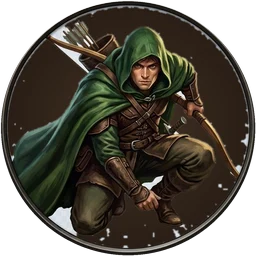
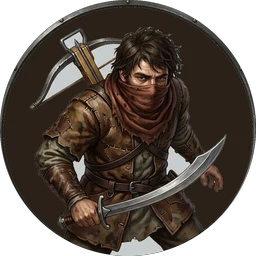
Swap in new bandit token and welcome art; mark all gen-images done
Claude-Session: https://claude.ai/code/session_01RabvW37jVAKFFNPmZBsKeE

diff --git a/dnd-for-friend/gen-images.html b/dnd-for-friend/gen-images.html
@@ -121,7 +121,7 @@ code { font-family: var(--font-mono); font-size: .85em }
 </div>
 
 <script>
-const IMAGES = [{"group":"npc","name":"npc-maren","label":"Sister Maren · วิหาร","ratio":"3:4","prompt":"Sister Maren, a kind middle-aged human priestess of a dawn goddess, warm brown skin, gentle smile, silver-streaked dark hair under a cream hood, white and gold robes with a sunrise emblem on the chest, holding a small glowing lantern. Waist-up character portrait, facing slightly toward the viewer, warm candle and lantern light, softly blurred dark background, painted like a fantasy RPG visual novel character.","note":"ok","noteText":"อยู่ในเกมแล้ว"},{"group":"npc","name":"npc-pell","label":"Old Pell · โรงเตี๊ยม","ratio":"3:4","prompt":"Old Pell, a very old halfling storyteller sitting by a tavern hearth, bushy white eyebrows, twinkling eyes, long pipe with a curl of smoke, patched green waistcoat, mug of ale, leaning in as if telling a secret about a dragon. Waist-up character portrait, facing slightly toward the viewer, warm candle and lantern light, softly blurred dark background, painted like a fantasy RPG visual novel character.","note":"ok","noteText":"อยู่ในเกมแล้ว"},{"group":"npc","name":"npc-bram","label":"Bram · ตลาด","ratio":"3:4","prompt":"Bram, a grumpy stout dwarf shopkeeper with a braided red-brown beard, leather apron full of tools, one eyebrow raised, arms crossed, shelves of potions, rope and weapons behind him. Waist-up character portrait, facing slightly toward the viewer, warm candle and lantern light, softly blurred dark background, painted like a fantasy RPG visual novel character.","note":"ok","noteText":"อยู่ในเกมแล้ว"},{"group":"npc","name":"npc-oswin","label":"Mayor Oswin Hale · กระดานประกาศ","ratio":"3:4","prompt":"Mayor Oswin Hale, a worried but kind human village mayor in his fifties, round face, receding gray hair, tired eyes, plain brown coat with a brass chain of office, holding a crumpled missing-persons notice. Waist-up character portrait, facing slightly toward the viewer, warm candle and lantern light, softly blurred dark background, painted like a fantasy RPG visual novel character.","note":"ok","noteText":"อยู่ในเกมแล้ว"},{"group":"portrait","name":"portrait-pre-fighter","label":"Brannoc Ironvow","ratio":"1:1","prompt":"Fantasy portrait of a stout dwarf warrior, braided copper beard, long scar on left cheek, chain mail armor, greatsword over shoulder, determined stern eyes, torch-lit mine gate background, painterly D&D character art, upper body, dramatic lighting. Head and shoulders, centered, plain dark background.","note":"ok","noteText":"อยู่ในเกมแล้ว"},{"group":"portrait","name":"portrait-pre-rogue","label":"Pip Quickfinger","ratio":"1:1","prompt":"Fantasy portrait of a cheerful halfling rogue, curly brown hair, mischievous grin, dark leather hooded cloak, twin daggers, harbor alley at night with lanterns, painterly D&D character art, upper body, moody blue and orange lighting. Head and shoulders, centered, plain dark background.","note":"ok","noteText":"อยู่ในเกมแล้ว"},{"group":"portrait","name":"portrait-pre-cleric","label":"Sister Elara Dawnmere","ratio":"1:1","prompt":"Fantasy portrait of a young human female cleric, long silver hair tied back, amber eyes, white and gold vestments over chain shirt, round shield with sun emblem, holy light glowing from her hand, temple interior background, painterly D&D character art, upper body, warm golden lighting. Head and shoulders, centered, plain dark background.","note":"ok","noteText":"อยู่ในเกมแล้ว"},{"group":"portrait","name":"portrait-pre-ranger","label":"Faelan Windleaf","ratio":"1:1","prompt":"Fantasy portrait of a male wood elf ranger, tan skin, long dark green hair braided with dry leaves, camouflaged leather armor, carved longbow with vine patterns, misty ancient forest background, painterly D&D character art, upper body, soft green dappled light. Head and shoulders, centered, plain dark background.","note":"ok","noteText":"อยู่ในเกมแล้ว"},{"group":"portrait","name":"portrait-pre-wizard","label":"Tibbly Cogsworth","ratio":"1:1","prompt":"Fantasy portrait of a tiny gnome wizard, fluffy white hair sticking up, thick round glasses, singed blue robe, hugging an oversized spellbook, small blue flame floating above his palm, cluttered magic library background, painterly D&D character art, upper body, whimsical warm candle lighting. Head and shoulders, centered, plain dark background.","note":"ok","noteText":"อยู่ในเกมแล้ว"},{"group":"token","name":"token-wolf","label":"Wolf · CR 1/4","ratio":"1:1","prompt":"Circular top-down tabletop token of a lean gray wolf with bared fangs, viewed from directly above at a slight angle, centered inside a thin dark round frame, transparent-looking plain light gray background outside the circle.","note":"ok","noteText":"อยู่ในเกมแล้ว"},{"group":"token","name":"token-goblin-minion","label":"Goblin Minion · CR 1/8","ratio":"1:1","prompt":"Circular top-down tabletop token of a scrawny green goblin with a rusty knife and ragged hood, viewed from directly above at a slight angle, centered inside a thin dark round frame, transparent-looking plain light gray background outside the circle.","note":"ok","noteText":"อยู่ในเกมแล้ว"},{"group":"token","name":"token-goblin-warrior","label":"Goblin Warrior · CR 1/4","ratio":"1:1","prompt":"Circular top-down tabletop token of a goblin warrior with a scimitar, small round shield and leather armor, viewed from directly above at a slight angle, centered inside a thin dark round frame, transparent-looking plain light gray background outside the circle.","note":"ok","noteText":"อยู่ในเกมแล้ว"},{"group":"token","name":"token-goblin-boss","label":"Goblin Boss · CR 1","ratio":"1:1","prompt":"Circular top-down tabletop token of a hulking goblin chieftain with a crown of bones, chain shirt and heavy scimitar, viewed from directly above at a slight angle, centered inside a thin dark round frame, transparent-looking plain light gray background outside the circle.","note":"ok","noteText":"อยู่ในเกมแล้ว"},{"group":"token","name":"token-skeleton","label":"Skeleton · CR 1/4","ratio":"1:1","prompt":"Circular top-down tabletop token of an animated human skeleton with a notched shortsword and glowing blue eye sockets, viewed from directly above at a slight angle, centered inside a thin dark round frame, transparent-looking plain light gray background outside the circle.","note":"ok","noteText":"อยู่ในเกมแล้ว"},{"group":"token","name":"token-zombie","label":"Zombie · CR 1/4","ratio":"1:1","prompt":"Circular top-down tabletop token of a shambling rotting zombie in torn burial clothes, viewed from directly above at a slight angle, centered inside a thin dark round frame, transparent-looking plain light gray background outside the circle.","note":"ok","noteText":"อยู่ในเกมแล้ว"},{"group":"token","name":"token-swarm-of-rats","label":"Swarm of Rats · CR 1/4","ratio":"1:1","prompt":"Circular top-down tabletop token of a writhing swarm of dozens of black rats, viewed from directly above at a slight angle, centered inside a thin dark round frame, transparent-looking plain light gray background outside the circle.","note":"ok","noteText":"อยู่ในเกมแล้ว"},{"group":"token","name":"token-ghoul","label":"Ghoul · CR 1","ratio":"1:1","prompt":"Circular top-down tabletop token of a gaunt gray ghoul with long claws and a hungry grin, viewed from directly above at a slight angle, centered inside a thin dark round frame, transparent-looking plain light gray background outside the circle.","note":"ok","noteText":"อยู่ในเกมแล้ว"},{"group":"token","name":"token-ghast","label":"Ghast · CR 2","ratio":"1:1","prompt":"Circular top-down tabletop token of a ghast in tattered priest robes with ashen skin, sharp claws and a putrid green aura, viewed from directly above at a slight angle, centered inside a thin dark round frame, transparent-looking plain light gray background outside the circle.","note":"ok","noteText":"อยู่ในเกมแล้ว"},{"group":"token","name":"token-bandit","label":"Bandit · CR 1/8","ratio":"1:1","prompt":"Circular top-down tabletop token of a rough unshaven human bandit with no hood, a dirty red-brown scarf over the lower face, patched brown leather jerkin, scimitar in hand and a light crossbow on the back (NOT green, NOT a cloak, must look different from a scout), viewed from directly above at a slight angle, centered inside a thin dark round frame, transparent-looking plain light gray background outside the circle.","note":"redo","noteText":"ทำใหม่: ตอนนี้หน้าตาเหมือน Scout (ผ้าคลุมเขียว) ในเกมแยกไม่ออก Prompt แก้แล้ว"},{"group":"token","name":"token-scout","label":"Scout · CR 1/2","ratio":"1:1","prompt":"Circular top-down tabletop token of a sharp-eyed scout in a green cloak with a longbow, viewed from directly above at a slight angle, centered inside a thin dark round frame, transparent-looking plain light gray background outside the circle.","note":"ok","noteText":"อยู่ในเกมแล้ว"},{"group":"token","name":"token-tough","label":"Tough · CR 1/2","ratio":"1:1","prompt":"Circular top-down tabletop token of a burly thug with a mace and studded leather armor, viewed from directly above at a slight angle, centered inside a thin dark round frame, transparent-looking plain light gray background outside the circle.","note":"ok","noteText":"อยู่ในเกมแล้ว"},{"group":"token","name":"token-bandit-captain","label":"Bandit Captain · CR 2","ratio":"1:1","prompt":"Circular top-down tabletop token of a scarred bandit captain with a red bandana, scimitar and dagger, fine but dirty coat, viewed from directly above at a slight angle, centered inside a thin dark round frame, transparent-looking plain light gray background outside the circle.","note":"ok","noteText":"อยู่ในเกมแล้ว"},{"group":"token","name":"token-cultist","label":"Cultist · CR 1/8","ratio":"1:1","prompt":"Circular top-down tabletop token of a cultist in an ash-gray robe with a three-pronged flame symbol, viewed from directly above at a slight angle, centered inside a thin dark round frame, transparent-looking plain light gray background outside the circle.","note":"ok","noteText":"อยู่ในเกมแล้ว"},{"group":"token","name":"token-magma-mephit","label":"Magma Mephit · CR 1/2","ratio":"1:1","prompt":"Circular top-down tabletop token of a small impish creature of molten rock and dripping magma, viewed from directly above at a slight angle, centered inside a thin dark round frame, transparent-looking plain light gray background outside the circle.","note":"ok","noteText":"อยู่ในเกมแล้ว"},{"group":"token","name":"token-cultist-fanatic","label":"Cultist Fanatic · CR 2","ratio":"1:1","prompt":"Circular top-down tabletop token of a fanatical cult leader in ash-gray and ember-red robes holding a flaming dagger, viewed from directly above at a slight angle, centered inside a thin dark round frame, transparent-looking plain light gray background outside the circle.","note":"ok","noteText":"อยู่ในเกมแล้ว"},{"group":"token","name":"token-hell-hound","label":"Hell Hound · CR 3","ratio":"1:1","prompt":"Circular top-down tabletop token of a black hound wreathed in fire with smoldering red eyes, viewed from directly above at a slight angle, centered inside a thin dark round frame, transparent-looking plain light gray background outside the circle.","note":"ok","noteText":"อยู่ในเกมแล้ว"},{"group":"token","name":"token-red-dragon-wyrmling","label":"Red Dragon Wyrmling · CR 4","ratio":"1:1","prompt":"Circular top-down tabletop token of a young red dragon with crimson scales, horned head and smoke curling from its nostrils, viewed from directly above at a slight angle, centered inside a thin dark round frame, transparent-looking plain light gray background outside the circle.","note":"ok","noteText":"ใช้ได้ (พื้นหลังลายตารางลบไม่หมดนิดหน่อยแถวหัว ถ้าอยากเนียนค่อยทำใหม่)"},{"group":"world","name":"map-world","label":"Ember Vale world map","ratio":"16:9","prompt":"Hand-painted fantasy overland map of a valley called Ember Vale, parchment style seen from above. Places: Brindlemoor (a small log village by a stream) at 18% from the left and 52% from the top; Thornback Hollow (a thorny forest hollow) at 46% from the left and 57% from the top; Gravewatch Crypt (an old crypt in a misty graveyard) at 37% from the left and 24% from the top; Redcliff Tower (a red stone tower on a sea cliff) at 85% from the left and 58% from the top; Ashen Spire (a black volcanic spire with smoke) at 84% from the left and 22% from the top. Dirt roads connect the village to the forest hollow, the crypt and the tower, and the hollow and tower to the volcanic spire. A river runs across the lower third. Mountains in the north. Leave the place markers unlabeled (the game draws its own pins and names).","note":"ok","noteText":"อยู่ในเกมแล้ว"},{"group":"welcome","name":"welcome","label":"รูปต้อนรับหน้าเข้าเล่น","ratio":"16:9","prompt":"Epic wide establishing shot of Ember Vale at dusk: a cozy log village with warm lit windows by a stream in the foreground left, a dark thorny forest in the middle, a red stone tower on a sea cliff to the right, and far away a black volcanic spire glowing with lava and smoke where a red dragon silhouette circles. Five adventurers seen from behind on a hill in the lower right (a dwarf fighter with a greatsword, a halfling rogue, a human cleric with a shining shield, an elf ranger with a bow, a gnome wizard with a staff light). Cinematic painted fantasy key art, warm amber and teal palette, the lower-left third is darker and simpler so title text can sit there.","note":"new","noteText":"ยังไม่มี: ตอนนี้หน้าเข้าเล่นใช้แผนที่โลกแทนไปก่อน ทำแล้วเซฟเป็น images\\welcome.png"},{"group":"object","name":"obj-chest","label":"หีบสมบัติบนแผนที่","ratio":"1:1","prompt":"A single small closed wooden treasure chest with iron bands and a gold lock, seen from directly above at a slight angle like a tabletop map prop, centered, filling most of the frame, plain flat dark brown background, soft warm light, no shadow outside the chest.","note":"new","noteText":"ยังไม่มี: ตอนนี้เกมวาดเป็นกล่องสีน้ำตาลเฉย ๆ ทำแล้วใส่ในโฟลเดอร์ images ส่งให้ Claude"}];
+const IMAGES = [{"group":"npc","name":"npc-maren","label":"Sister Maren · วิหาร","ratio":"3:4","prompt":"Sister Maren, a kind middle-aged human priestess of a dawn goddess, warm brown skin, gentle smile, silver-streaked dark hair under a cream hood, white and gold robes with a sunrise emblem on the chest, holding a small glowing lantern. Waist-up character portrait, facing slightly toward the viewer, warm candle and lantern light, softly blurred dark background, painted like a fantasy RPG visual novel character.","note":"ok","noteText":"อยู่ในเกมแล้ว"},{"group":"npc","name":"npc-pell","label":"Old Pell · โรงเตี๊ยม","ratio":"3:4","prompt":"Old Pell, a very old halfling storyteller sitting by a tavern hearth, bushy white eyebrows, twinkling eyes, long pipe with a curl of smoke, patched green waistcoat, mug of ale, leaning in as if telling a secret about a dragon. Waist-up character portrait, facing slightly toward the viewer, warm candle and lantern light, softly blurred dark background, painted like a fantasy RPG visual novel character.","note":"ok","noteText":"อยู่ในเกมแล้ว"},{"group":"npc","name":"npc-bram","label":"Bram · ตลาด","ratio":"3:4","prompt":"Bram, a grumpy stout dwarf shopkeeper with a braided red-brown beard, leather apron full of tools, one eyebrow raised, arms crossed, shelves of potions, rope and weapons behind him. Waist-up character portrait, facing slightly toward the viewer, warm candle and lantern light, softly blurred dark background, painted like a fantasy RPG visual novel character.","note":"ok","noteText":"อยู่ในเกมแล้ว"},{"group":"npc","name":"npc-oswin","label":"Mayor Oswin Hale · กระดานประกาศ","ratio":"3:4","prompt":"Mayor Oswin Hale, a worried but kind human village mayor in his fifties, round face, receding gray hair, tired eyes, plain brown coat with a brass chain of office, holding a crumpled missing-persons notice. Waist-up character portrait, facing slightly toward the viewer, warm candle and lantern light, softly blurred dark background, painted like a fantasy RPG visual novel character.","note":"ok","noteText":"อยู่ในเกมแล้ว"},{"group":"portrait","name":"portrait-pre-fighter","label":"Brannoc Ironvow","ratio":"1:1","prompt":"Fantasy portrait of a stout dwarf warrior, braided copper beard, long scar on left cheek, chain mail armor, greatsword over shoulder, determined stern eyes, torch-lit mine gate background, painterly D&D character art, upper body, dramatic lighting. Head and shoulders, centered, plain dark background.","note":"ok","noteText":"อยู่ในเกมแล้ว"},{"group":"portrait","name":"portrait-pre-rogue","label":"Pip Quickfinger","ratio":"1:1","prompt":"Fantasy portrait of a cheerful halfling rogue, curly brown hair, mischievous grin, dark leather hooded cloak, twin daggers, harbor alley at night with lanterns, painterly D&D character art, upper body, moody blue and orange lighting. Head and shoulders, centered, plain dark background.","note":"ok","noteText":"อยู่ในเกมแล้ว"},{"group":"portrait","name":"portrait-pre-cleric","label":"Sister Elara Dawnmere","ratio":"1:1","prompt":"Fantasy portrait of a young human female cleric, long silver hair tied back, amber eyes, white and gold vestments over chain shirt, round shield with sun emblem, holy light glowing from her hand, temple interior background, painterly D&D character art, upper body, warm golden lighting. Head and shoulders, centered, plain dark background.","note":"ok","noteText":"อยู่ในเกมแล้ว"},{"group":"portrait","name":"portrait-pre-ranger","label":"Faelan Windleaf","ratio":"1:1","prompt":"Fantasy portrait of a male wood elf ranger, tan skin, long dark green hair braided with dry leaves, camouflaged leather armor, carved longbow with vine patterns, misty ancient forest background, painterly D&D character art, upper body, soft green dappled light. Head and shoulders, centered, plain dark background.","note":"ok","noteText":"อยู่ในเกมแล้ว"},{"group":"portrait","name":"portrait-pre-wizard","label":"Tibbly Cogsworth","ratio":"1:1","prompt":"Fantasy portrait of a tiny gnome wizard, fluffy white hair sticking up, thick round glasses, singed blue robe, hugging an oversized spellbook, small blue flame floating above his palm, cluttered magic library background, painterly D&D character art, upper body, whimsical warm candle lighting. Head and shoulders, centered, plain dark background.","note":"ok","noteText":"อยู่ในเกมแล้ว"},{"group":"token","name":"token-wolf","label":"Wolf · CR 1/4","ratio":"1:1","prompt":"Circular top-down tabletop token of a lean gray wolf with bared fangs, viewed from directly above at a slight angle, centered inside a thin dark round frame, transparent-looking plain light gray background outside the circle.","note":"ok","noteText":"อยู่ในเกมแล้ว"},{"group":"token","name":"token-goblin-minion","label":"Goblin Minion · CR 1/8","ratio":"1:1","prompt":"Circular top-down tabletop token of a scrawny green goblin with a rusty knife and ragged hood, viewed from directly above at a slight angle, centered inside a thin dark round frame, transparent-looking plain light gray background outside the circle.","note":"ok","noteText":"อยู่ในเกมแล้ว"},{"group":"token","name":"token-goblin-warrior","label":"Goblin Warrior · CR 1/4","ratio":"1:1","prompt":"Circular top-down tabletop token of a goblin warrior with a scimitar, small round shield and leather armor, viewed from directly above at a slight angle, centered inside a thin dark round frame, transparent-looking plain light gray background outside the circle.","note":"ok","noteText":"อยู่ในเกมแล้ว"},{"group":"token","name":"token-goblin-boss","label":"Goblin Boss · CR 1","ratio":"1:1","prompt":"Circular top-down tabletop token of a hulking goblin chieftain with a crown of bones, chain shirt and heavy scimitar, viewed from directly above at a slight angle, centered inside a thin dark round frame, transparent-looking plain light gray background outside the circle.","note":"ok","noteText":"อยู่ในเกมแล้ว"},{"group":"token","name":"token-skeleton","label":"Skeleton · CR 1/4","ratio":"1:1","prompt":"Circular top-down tabletop token of an animated human skeleton with a notched shortsword and glowing blue eye sockets, viewed from directly above at a slight angle, centered inside a thin dark round frame, transparent-looking plain light gray background outside the circle.","note":"ok","noteText":"อยู่ในเกมแล้ว"},{"group":"token","name":"token-zombie","label":"Zombie · CR 1/4","ratio":"1:1","prompt":"Circular top-down tabletop token of a shambling rotting zombie in torn burial clothes, viewed from directly above at a slight angle, centered inside a thin dark round frame, transparent-looking plain light gray background outside the circle.","note":"ok","noteText":"อยู่ในเกมแล้ว"},{"group":"token","name":"token-swarm-of-rats","label":"Swarm of Rats · CR 1/4","ratio":"1:1","prompt":"Circular top-down tabletop token of a writhing swarm of dozens of black rats, viewed from directly above at a slight angle, centered inside a thin dark round frame, transparent-looking plain light gray background outside the circle.","note":"ok","noteText":"อยู่ในเกมแล้ว"},{"group":"token","name":"token-ghoul","label":"Ghoul · CR 1","ratio":"1:1","prompt":"Circular top-down tabletop token of a gaunt gray ghoul with long claws and a hungry grin, viewed from directly above at a slight angle, centered inside a thin dark round frame, transparent-looking plain light gray background outside the circle.","note":"ok","noteText":"อยู่ในเกมแล้ว"},{"group":"token","name":"token-ghast","label":"Ghast · CR 2","ratio":"1:1","prompt":"Circular top-down tabletop token of a ghast in tattered priest robes with ashen skin, sharp claws and a putrid green aura, viewed from directly above at a slight angle, centered inside a thin dark round frame, transparent-looking plain light gray background outside the circle.","note":"ok","noteText":"อยู่ในเกมแล้ว"},{"group":"token","name":"token-bandit","label":"Bandit · CR 1/8","ratio":"1:1","prompt":"Circular top-down tabletop token of a rough unshaven human bandit with no hood, a dirty red-brown scarf over the lower face, patched brown leather jerkin, scimitar in hand and a light crossbow on the back (NOT green, NOT a cloak, must look different from a scout), viewed from directly above at a slight angle, centered inside a thin dark round frame, transparent-looking plain light gray background outside the circle.","note":"ok","noteText":"อยู่ในเกมแล้ว"},{"group":"token","name":"token-scout","label":"Scout · CR 1/2","ratio":"1:1","prompt":"Circular top-down tabletop token of a sharp-eyed scout in a green cloak with a longbow, viewed from directly above at a slight angle, centered inside a thin dark round frame, transparent-looking plain light gray background outside the circle.","note":"ok","noteText":"อยู่ในเกมแล้ว"},{"group":"token","name":"token-tough","label":"Tough · CR 1/2","ratio":"1:1","prompt":"Circular top-down tabletop token of a burly thug with a mace and studded leather armor, viewed from directly above at a slight angle, centered inside a thin dark round frame, transparent-looking plain light gray background outside the circle.","note":"ok","noteText":"อยู่ในเกมแล้ว"},{"group":"token","name":"token-bandit-captain","label":"Bandit Captain · CR 2","ratio":"1:1","prompt":"Circular top-down tabletop token of a scarred bandit captain with a red bandana, scimitar and dagger, fine but dirty coat, viewed from directly above at a slight angle, centered inside a thin dark round frame, transparent-looking plain light gray background outside the circle.","note":"ok","noteText":"อยู่ในเกมแล้ว"},{"group":"token","name":"token-cultist","label":"Cultist · CR 1/8","ratio":"1:1","prompt":"Circular top-down tabletop token of a cultist in an ash-gray robe with a three-pronged flame symbol, viewed from directly above at a slight angle, centered inside a thin dark round frame, transparent-looking plain light gray background outside the circle.","note":"ok","noteText":"อยู่ในเกมแล้ว"},{"group":"token","name":"token-magma-mephit","label":"Magma Mephit · CR 1/2","ratio":"1:1","prompt":"Circular top-down tabletop token of a small impish creature of molten rock and dripping magma, viewed from directly above at a slight angle, centered inside a thin dark round frame, transparent-looking plain light gray background outside the circle.","note":"ok","noteText":"อยู่ในเกมแล้ว"},{"group":"token","name":"token-cultist-fanatic","label":"Cultist Fanatic · CR 2","ratio":"1:1","prompt":"Circular top-down tabletop token of a fanatical cult leader in ash-gray and ember-red robes holding a flaming dagger, viewed from directly above at a slight angle, centered inside a thin dark round frame, transparent-looking plain light gray background outside the circle.","note":"ok","noteText":"อยู่ในเกมแล้ว"},{"group":"token","name":"token-hell-hound","label":"Hell Hound · CR 3","ratio":"1:1","prompt":"Circular top-down tabletop token of a black hound wreathed in fire with smoldering red eyes, viewed from directly above at a slight angle, centered inside a thin dark round frame, transparent-looking plain light gray background outside the circle.","note":"ok","noteText":"อยู่ในเกมแล้ว"},{"group":"token","name":"token-red-dragon-wyrmling","label":"Red Dragon Wyrmling · CR 4","ratio":"1:1","prompt":"Circular top-down tabletop token of a young red dragon with crimson scales, horned head and smoke curling from its nostrils, viewed from directly above at a slight angle, centered inside a thin dark round frame, transparent-looking plain light gray background outside the circle.","note":"ok","noteText":"ใช้ได้ (พื้นหลังลายตารางลบไม่หมดนิดหน่อยแถวหัว ถ้าอยากเนียนค่อยทำใหม่)"},{"group":"world","name":"map-world","label":"Ember Vale world map","ratio":"16:9","prompt":"Hand-painted fantasy overland map of a valley called Ember Vale, parchment style seen from above. Places: Brindlemoor (a small log village by a stream) at 18% from the left and 52% from the top; Thornback Hollow (a thorny forest hollow) at 46% from the left and 57% from the top; Gravewatch Crypt (an old crypt in a misty graveyard) at 37% from the left and 24% from the top; Redcliff Tower (a red stone tower on a sea cliff) at 85% from the left and 58% from the top; Ashen Spire (a black volcanic spire with smoke) at 84% from the left and 22% from the top. Dirt roads connect the village to the forest hollow, the crypt and the tower, and the hollow and tower to the volcanic spire. A river runs across the lower third. Mountains in the north. Leave the place markers unlabeled (the game draws its own pins and names).","note":"ok","noteText":"อยู่ในเกมแล้ว"},{"group":"welcome","name":"welcome","label":"รูปต้อนรับหน้าเข้าเล่น","ratio":"16:9","prompt":"Epic wide establishing shot of Ember Vale at dusk: a cozy log village with warm lit windows by a stream in the foreground left, a dark thorny forest in the middle, a red stone tower on a sea cliff to the right, and far away a black volcanic spire glowing with lava and smoke where a red dragon silhouette circles. Five adventurers seen from behind on a hill in the lower right (a dwarf fighter with a greatsword, a halfling rogue, a human cleric with a shining shield, an elf ranger with a bow, a gnome wizard with a staff light). Cinematic painted fantasy key art, warm amber and teal palette, the lower-left third is darker and simpler so title text can sit there.","note":"ok","noteText":"อยู่ในเกมแล้ว"},{"group":"object","name":"obj-chest","label":"หีบสมบัติบนแผนที่","ratio":"1:1","prompt":"A single small closed wooden treasure chest with iron bands and a gold lock, seen from directly above at a slight angle like a tabletop map prop, centered, filling most of the frame, plain flat dark brown background, soft warm light, no shadow outside the chest.","note":"ok","noteText":"อยู่ในเกมแล้ว"}];
 const MAPS = {"hollow":["##########################","##########......##########","#########.b.b....,,,######","########...b....cc,,.#####","########..........c..#####","########..............####","########.C,,..........####","#######...,,..........####","#######......a..........##","#######.....a........e.e.#","######................B.C#","######...............e...#","######.........?......e.##","#######.S...###........###","#######....###############","##########################"],"crypt":["##########################","###.....#.......#####..C.#","###.?...#.a.a...#.b.#....#","###.....D..a....D.b.#....#","###....###................","###....###................","......,,,,,.........,,,e..",".S....,,,,,.........,,e...","......,,,,,....?....,,,.B.","......,,,,,.........,,e...","###....###.............e..","###....###................","###........c.c..#....#...#","###.........c...#....#...#","###.............######.C.#","##########################"],"tower":["...####################...","..######################..","..####.C..##..#...C.####..","...###...e..B..e....###...","...##.b...e...e...b.###...","...##................##...","...##....c.....c.....##...",".?.##.......c........##...","...##......,,,,,,,TT.##...","...##...a..,,,,,a,TT.##...","..###.....a,,,,,,a,.####..","..###......,,,,,,,,.#####.","..#########..############.","..##########..###########.","..........................","............S............."],"spire":["####......................","####...E..................","#................~....c...","#......########..~.c......","#......###....~~~~...c....","#...######.C.....~........","#...###.......d..##.......","#..........##....####.....",".........####....####.....",".?....~.a####....##.......",".....a~..##.####..........",".......a..~~####..........","#...a.....~~~~......b.....","#...........~~~~##b....C..","#..S........~~..##...b....","#...........~~............"],"summit":["........................","........................","........................","...........~~~~~~.......",".........~~......~~.....","........~e.......e~~....",".......~~....B.....~....",".......~~..........~....","........~..e....e.~~....","..S......~~.....~~~.....","...........~~~~~~.......","........................"]};
 const DEFAULT_STYLE = "Style: painted high-fantasy tabletop RPG illustration, rich colors, soft dramatic lighting, crisp details, no text, no letters, no watermark, no border.";
 const PRICE = { "gemini-nano-banana-2.1": { "1K": 0.0336, "2K": 0.0504 }, "gemini-3.1-flash-image": { "1K": 0.067, "2K": 0.101 }, "gemini-3-pro-image": { "1K": 0.134, "2K": 0.134 } };
